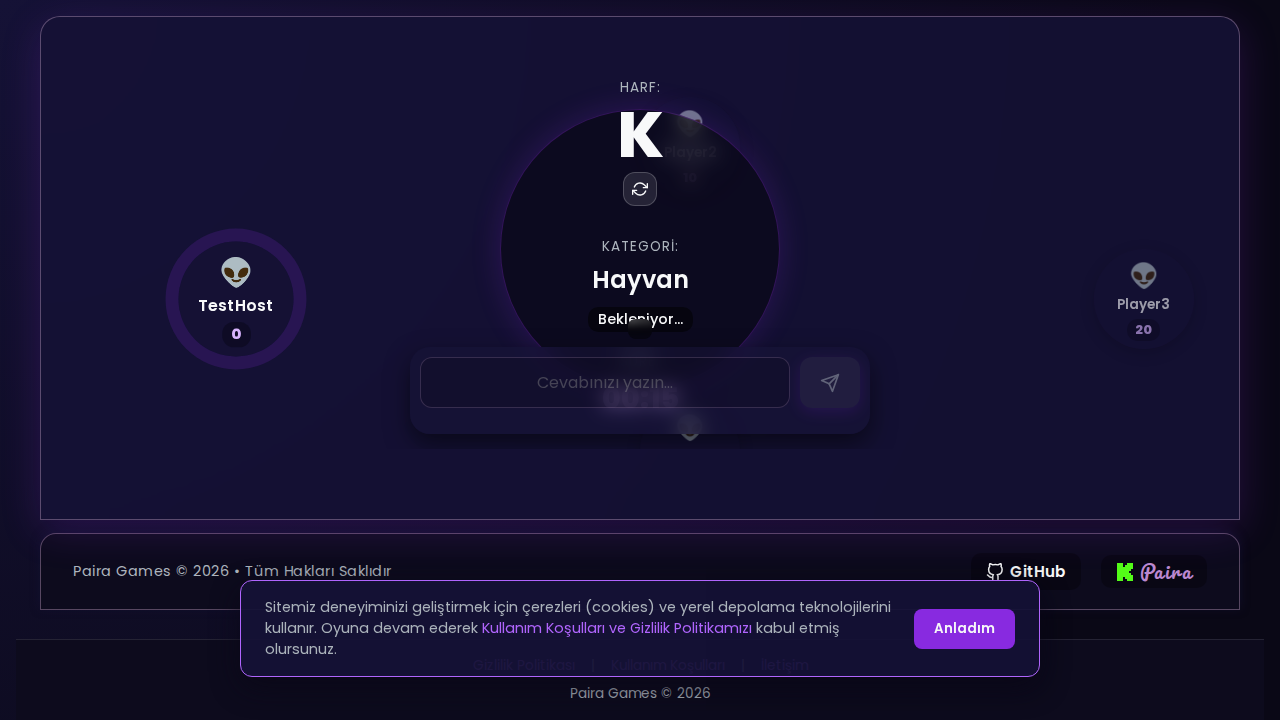
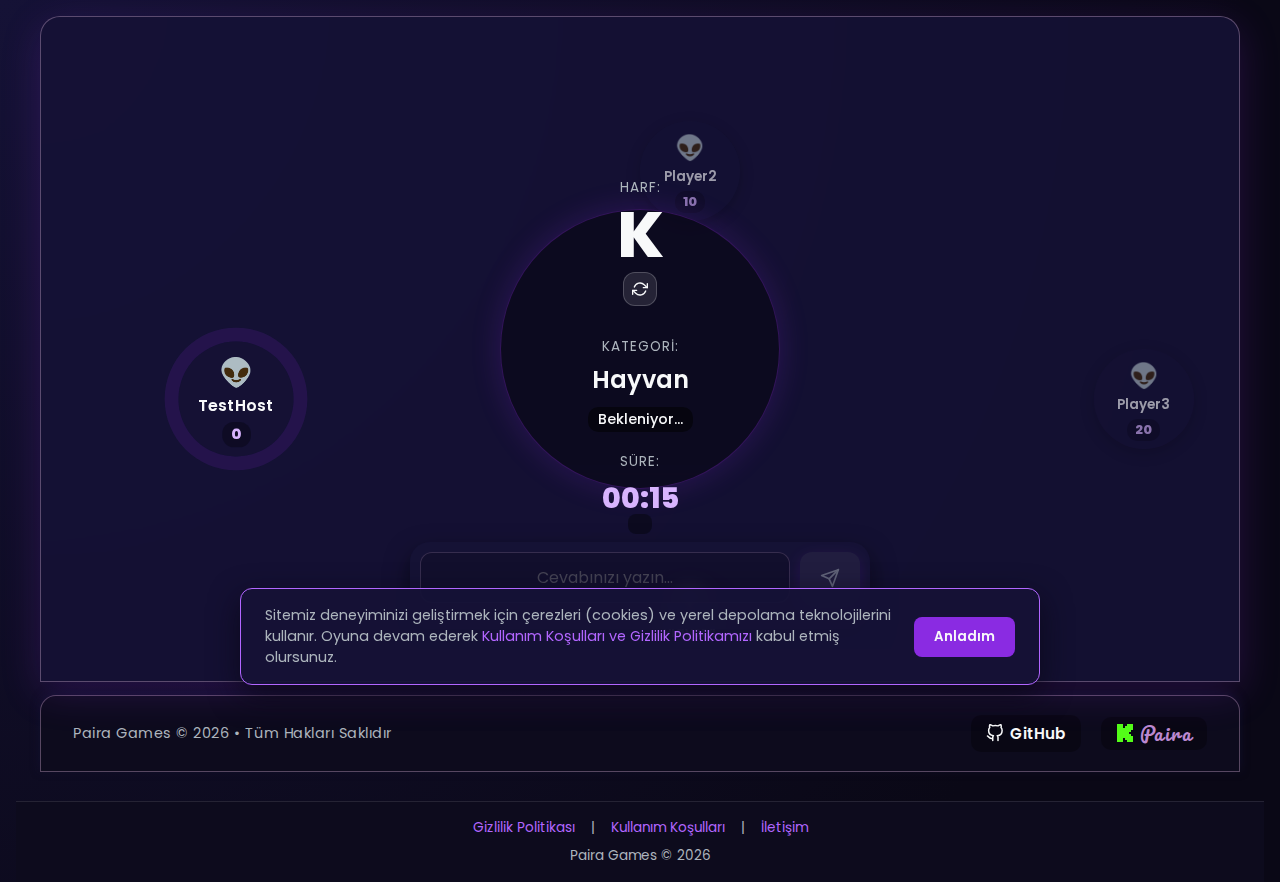
fix: resolve input box overlapping timer in Hizli Isim Sehir

diff --git a/HizliIsimSehir/game.css b/HizliIsimSehir/game.css
@@ -175,7 +175,7 @@
     flex-direction: column;
     align-items: center;
     justify-content: center;
-    min-height: 400px;
+    min-height: 600px;
     overflow: hidden;
 }
 
@@ -324,10 +324,9 @@
 
 /* Compact Input Area */
 .compact-input-area {
-    position: absolute;
-    bottom: 15px;
-    left: 50%;
-    transform: translateX(-50%);
+    position: relative;
+    margin-top: auto;
+    margin-bottom: 20px;
     width: 100%;
     max-width: 500px;
     display: flex;
